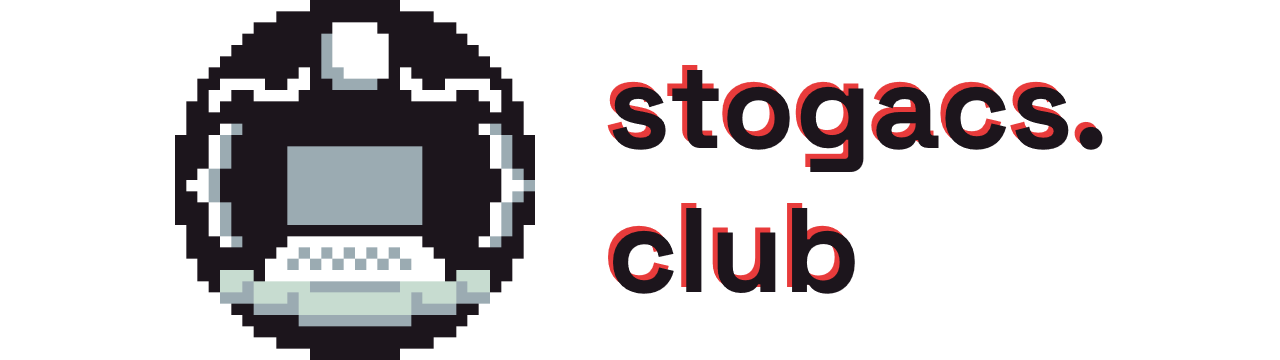
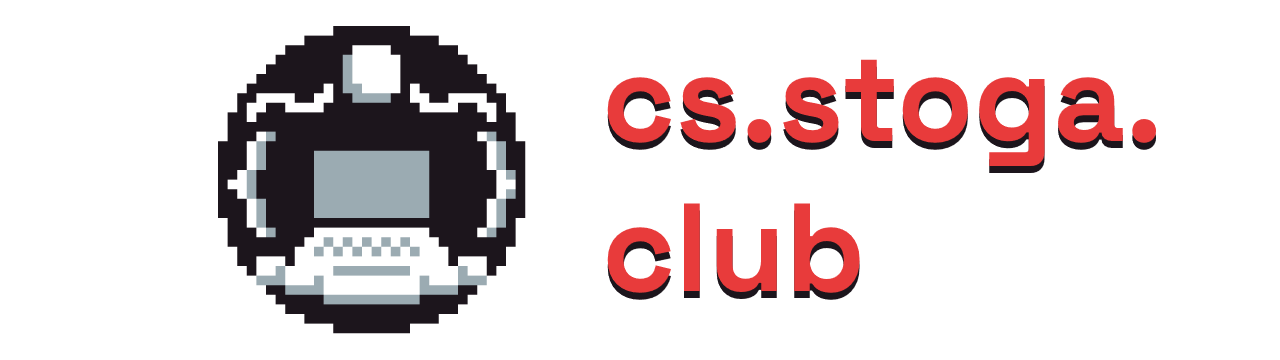
replace all instances of stogacs.club with cs.stoga.club

Changed region(s): [[0.125, 0.0, 0.4375, 1.0], [0.4688, 0.1528, 0.9062, 0.4889], [0.4688, 0.55, 0.6875, 0.8556]]

diff --git a/src/index.html b/src/index.html
@@ -58,7 +58,7 @@
         <h1>Contacts:</h1>
         <p>Schoology Code:<br><b><a href="https://schoology.tesd.net/enroll/group?code=MRV4S-28MM5">MRV4S-28MM5</a></b></p>
         <div class="flex flex-center">
-            <a href="mailto:officers@stogacs.club"><img src="/assets/media/mail.png" width="60%"></a>
+            <a href="mailto:stogacsclub@gmail.com"><img src="/assets/media/mail.png" width="60%"></a>
             <a href="https://github.com/stogacs"><img src="/assets/media/github.png" width="60%"></a>
         </div>
     </div>

diff --git a/README.md b/README.md
@@ -1,14 +1,14 @@
-![stogacs.club](./banner.png)
+![cs.stoga.club](./banner.png)
 
 ## About
 
-> This is the website for the Conestoga Computer Science Club. It's usually maintained by a member of the club's current leadership (right now that's me) and *anybody* is welcome to contribute! Check it out at [stogacs.club](https://stogacs.club)
+> This is the website for the Conestoga Computer Science Club. It's usually maintained by a member of the club's current leadership (right now that's me) and *anybody* is welcome to contribute! Check it out at [cs.stoga.club](https://cs.stoga.club)
 
 — Vishnu
 
 ## Instructions
 
-First off, you'll probably want to install [NodeJS](https://nodejs.org/en/) and [npm](https://www.npmjs.com/), then install the repository by either [downloading it](https://github.com/stogacs/stogacs.club/archive/refs/heads/main.zip) or running `git clone https://github.com/stogacs/stogacs.club`
+First off, you'll probably want to install [NodeJS](https://nodejs.org/en/) and [npm](https://www.npmjs.com/), then install the repository by either [downloading it](https://github.com/stogacs/website/archive/refs/heads/main.zip) or running `git clone https://github.com/stogacs/website`
 
 To start a dev server:
 
